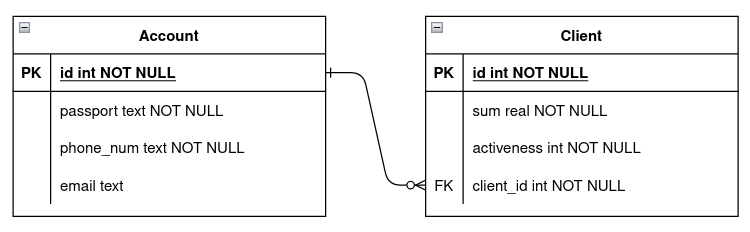
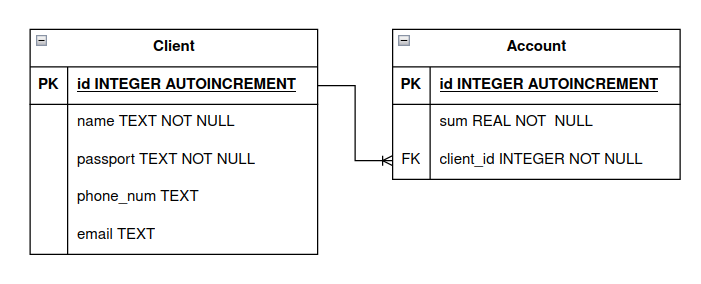
upd step 1 and step 2

Changed region(s): [[0.0, 0.0603, 0.9886, 0.9353], [0.5692, 0.9052, 0.9886, 0.9353]]

diff --git a/README.md b/README.md
@@ -1,0 +1,56 @@
+# Лабораторная работа 2. Справочники
+Антонченко Евгений, 3 курс 12 группа, 2023
+ **©** All rights reserved
+## 1. Описание базы данных
+База данных состоит из следующих справочников:
+
+ **Клиент**
+ - id *(первичный ключ)*
+ - ФИО
+ - серия и номер паспорта
+ - номер телефона
+ - адрес электронной почты
+
+ **Счет**
+ - id *(первичный ключ)*
+ - сумма на счете
+ - id владельца *(внешний ключ к Клиенту)*
+
+## 2. Проектирование БД
+![Схема базы данных](https://github.com/marbjorn/lab2_directory/blob/main/UML_scheme.png)
+
+**Создание таблиц:**
+
+    CREATE TABLE Client {
+    	id INTEGER PRIMARY KEY AUTOINCREMENT,
+    	name TEXT NOT NULL,
+    	passport TEXT NOT NULL,
+    	phone_num TEXT, 
+    	email TEXT
+    };
+    
+    CREATE TABLE Account {
+    	id INTEGER PRIMARY KEY AUTOINCREMENT,
+    	sum REAL NOT NULL,
+    	client_id INT NOT NULL,
+    	FOREIGN KEY (client_id) REFERENCES Client (id)
+    };
+
+**Пример заполнения таблиц:**
+
+    INSERT INTO Client (name, passport, phone_num, email) VALUES
+    ("Притыцкий Павел Валерьевич", "HB7714321", 8(033)9945221, prytipav@gmail.com),
+    ("Кропотко Елена Витальевна", "HB9832893", 8(033)5792401, cropelen@gmail.com),
+    ("Кашкевич Сергей Иванович", "HB3113454", 8(033)9843031, kashser@gmail.com),
+    ("Березовских Анастасия Борисовна", "HB0932214", 8(033)5431145, berezanas@gmail.com);
+
+    INSERT INTO Account (sum, client_id) VALUES
+    (100.98, 1),
+    (75.10, 3),
+    (503.23, 3),
+    (409.18, 2),
+    (167.37, 1),
+    (30.00, 4),
+    (89.43, 4);
+
+
